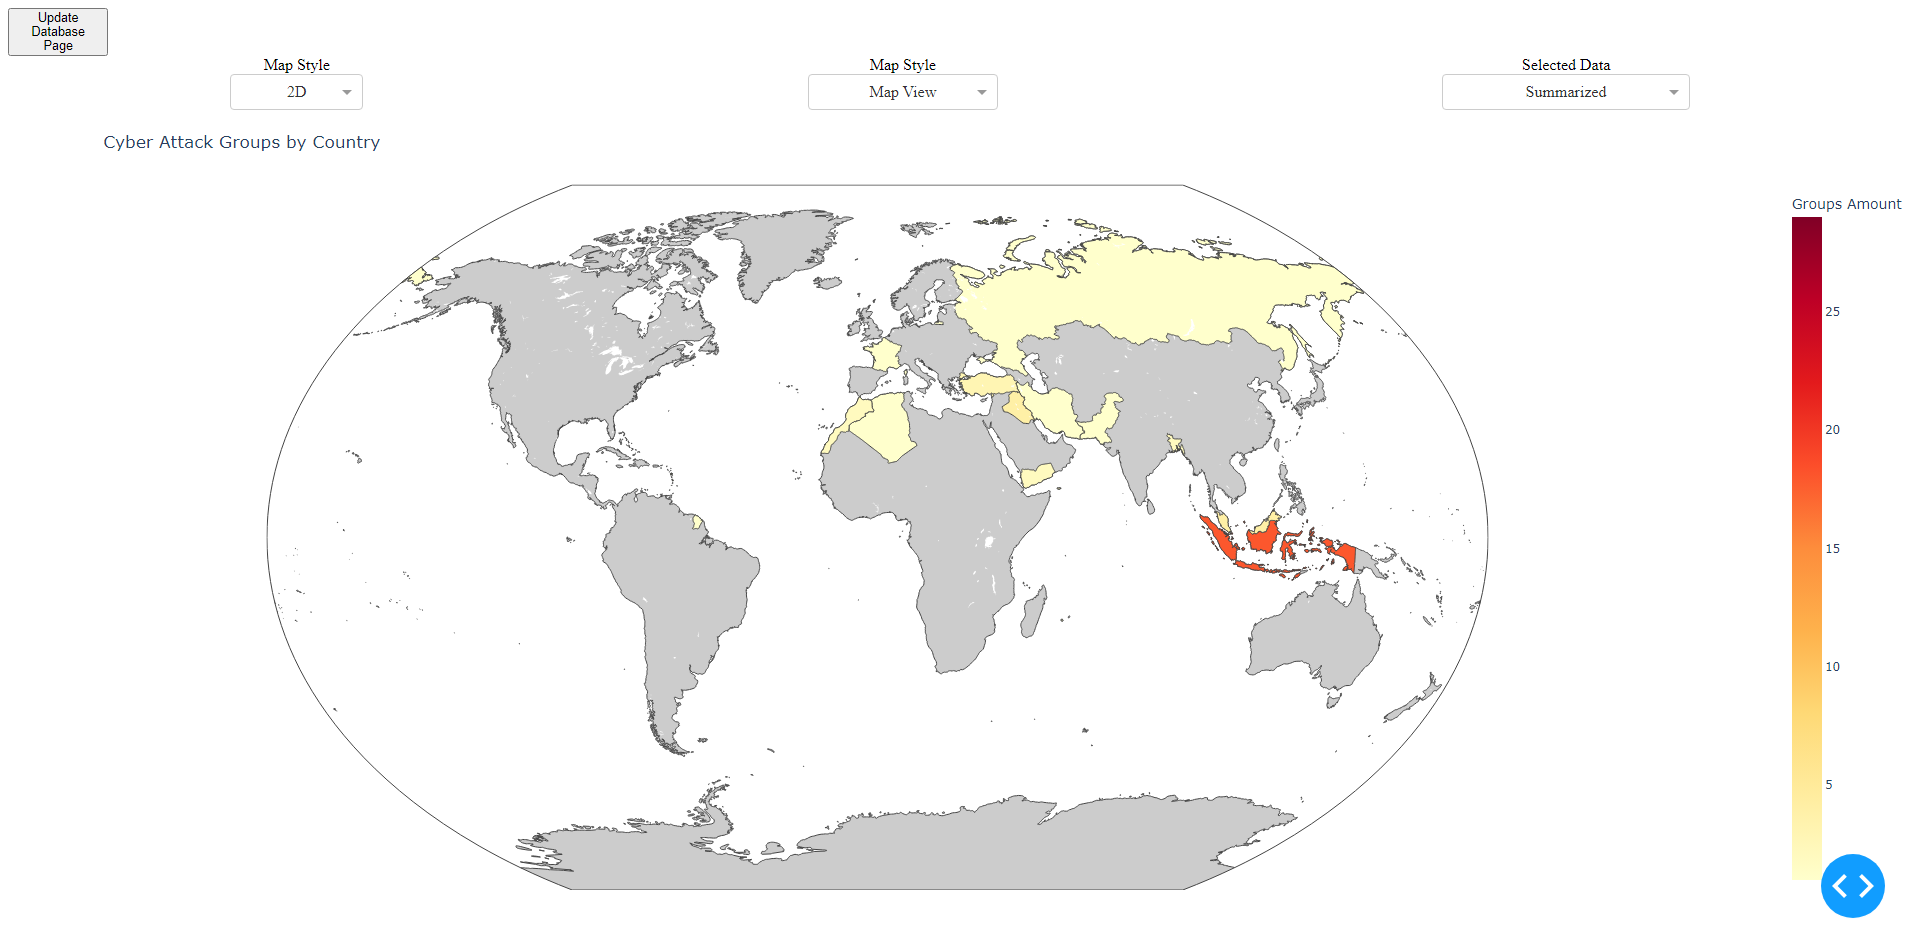
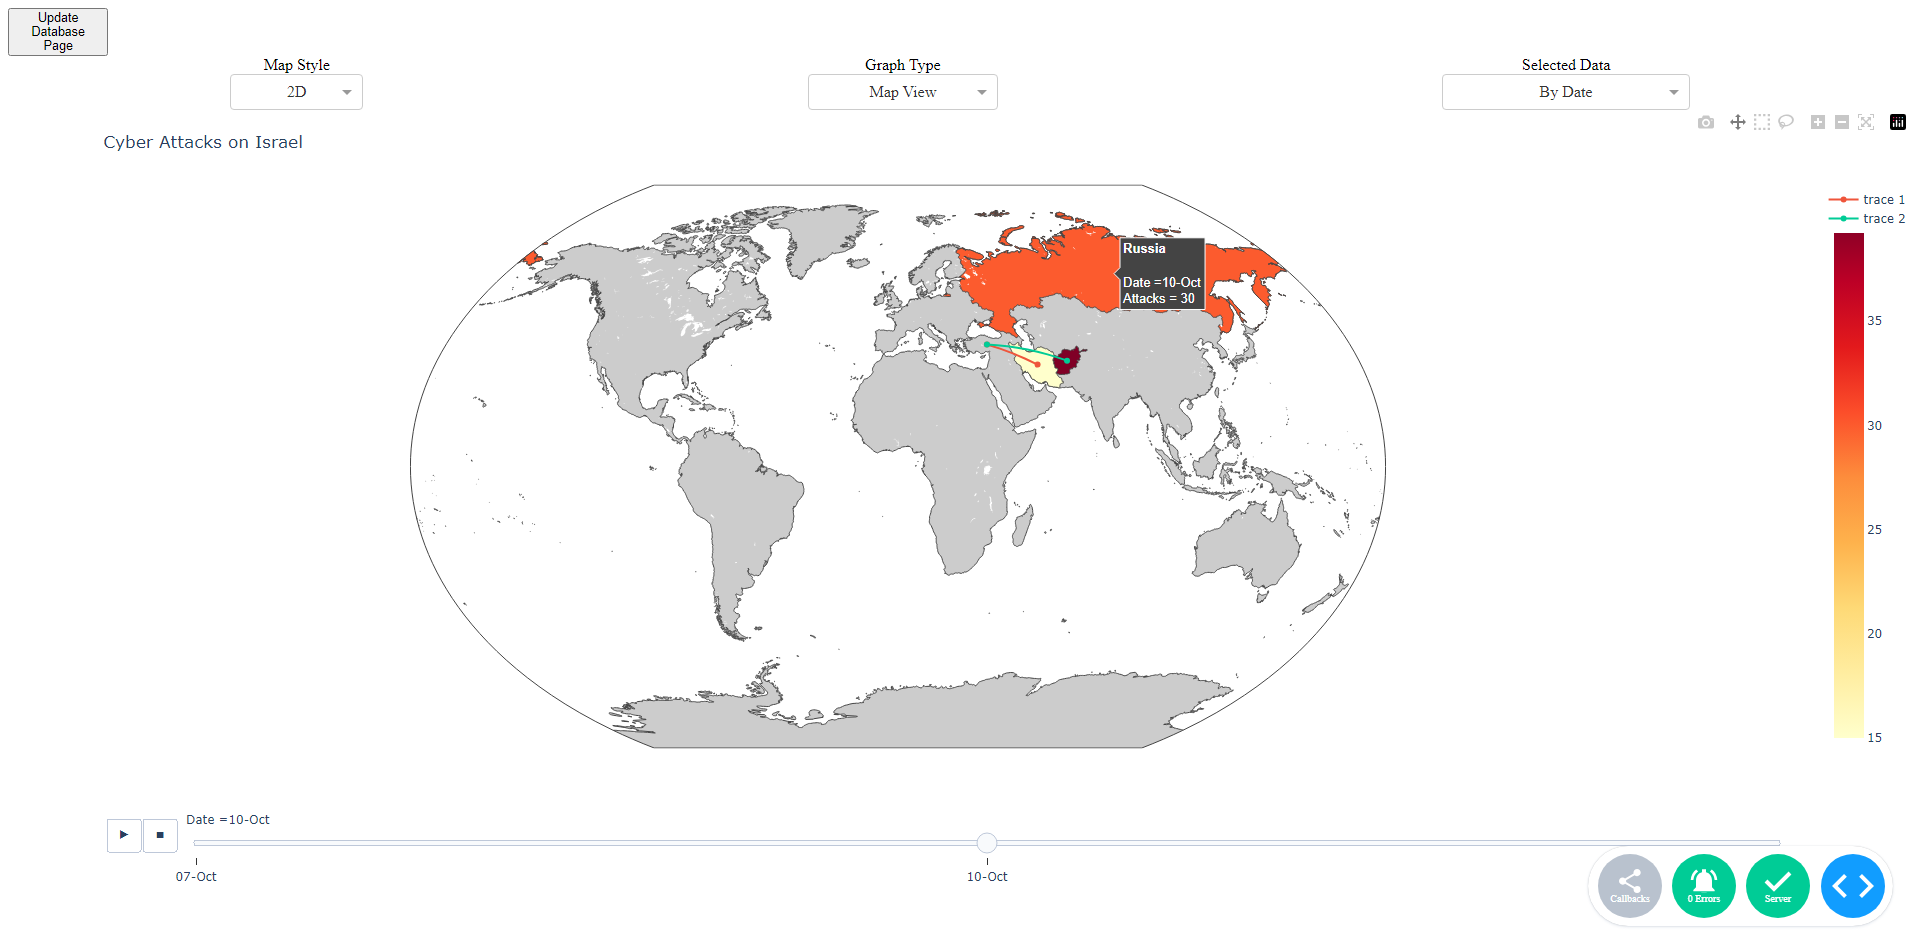
Version 1.2 - Fixed copy-past typo at the center dropdown list: "Map Style" -> "Graph Type" - Fixed the data of the Bars Graph  ( - Working Version - ) - The two dropdown lists that are connected only to the Map Graph won't appear anymore when the Bars Graph is displayed (using a global variable to 

diff --git a/Code/Server/server.py b/Code/Server/server.py
@@ -2,12 +2,16 @@ from dash import Dash, html
 from dash.dependencies import Input, Output, State
 import dash_bootstrap_components as dbc
 # - - - - - - - - - - - - - - -
+# please ignore if the IDE marks the 2 following lines as missing, there paths are loaded in "main.py"
 import html_graphs_divisions as graph_division
 import html_db_tab_divisions as db_tab_division
 import event_listener as event
 
 
 def set_server(attacks_data, fig, bars_fig, connections, date_animation):
+    global map_dropdown_style
+    map_dropdown_style = {'width': '13%', 'margin': '0 auto', 'textAlign': 'center'}
+
     event.init(attacks_data)
 
     app = Dash(__name__)
@@ -44,7 +48,7 @@ def set_server(attacks_data, fig, bars_fig, connections, date_animation):
                     style={'font-size': 12.5, 'width': 100}),
                     # style={'display': 'flex', 'margin': '0 auto'}),
 
-        graph_division.map_view(fig, bars_fig, date_animation),
+        graph_division.map_view(fig, bars_fig, date_animation, map_dropdown_style),
         db_tab_division.db_update(attacks_data, connections, date_animation)
     ])
 
@@ -80,7 +84,9 @@ def events(app, attacks_data, attacks_sum, screensize, color_axis, connections, 
         return fig, store_data
 
     # Choice the graph type #
-    app.callback(
+    @app.callback(
+        Output('map_style_display', 'style'),
+        Output('map_data_display', 'style'),
         Output('choropleth', 'style'),
         Output('bars', 'style'),
         Output('choropleth', 'figure', allow_duplicate=True),
@@ -89,7 +95,13 @@ def events(app, attacks_data, attacks_sum, screensize, color_axis, connections, 
         State('choropleth', 'figure'),
         # State('UI_Visibility', 'data'),
         prevent_initial_call=True
-    )(event.change_figure)
+    )
+    def figure_type(data_view, fig):
+        global map_dropdown_style
+        map_style_dropdown, map_data_dropdown, map_display, bars_display, fig =\
+            event.change_figure(data_view, fig, map_dropdown_style)
+        return map_style_dropdown, map_data_dropdown, map_display, bars_display, fig
+
     # def change_figure(data_view, fig):
     #     map_display, bars_display, fig = event.change_figure(data_view, fig)
     #     return map_display, bars_display, fig    #, store_data

diff --git a/Code/functions.py b/Code/functions.py
@@ -74,11 +74,20 @@ def create_map(attacks_data, map_style, screensize, color_axis, date_animation, 
                                 hover_data=hover_data, projection=map_style, animation_frame='Date ',
                                 title=graph_title, locationmode='country names', color_continuous_scale=colors_type,
                                 height=screensize[1]-150)   #.update_traces(visible=False, coloraxis=color_axis)
+
+        # bars_fig = pl_exp.bar(attacks_data, x="Country", y=color_data, color='Groups ', animation_frame='Date ',
+        #                       hover_data=hover_data)
+        bars_fig = pl_exp.bar(attacks_data, x="Country", y=color_data, color=color_data,
+                              hover_data=hover_data)  # pattern_shape='Groups ' , pattern_shape_sequence=[".", "x", "+"])
+
     else:
         fig = pl_exp.choropleth(attacks_data, locations='Country', color=color_data, hover_name='Country',
                                 hover_data=hover_data, projection=map_style,
                                 title=graph_title, locationmode='country names', color_continuous_scale=colors_type,
-                                height=screensize[1]-150)  # .update_traces(visible=False, coloraxis=color_axis)
+                                height=screensize[1]-150)
+
+        bars_fig = pl_exp.bar(attacks_data, x="Country", y=color_data, color=color_data,
+                              hover_data=hover_data)
 
     # else:
     #     fig = pl_exp.choropleth(attacks_data, locations='Country', color=color_data, hover_name='Country',
@@ -87,9 +96,6 @@ def create_map(attacks_data, map_style, screensize, color_axis, date_animation, 
     #                             height=screensize[1] - 100)  # .update_traces(visible=False, coloraxis=color_axis)
 
     # fig.update_layout(coloraxis_showscale=False)
-
-    bars_fig = pl_exp.bar(attacks_data, x="Country", y=color_data, color=color_data,
-                          pattern_shape="Groups ")     #, pattern_shape_sequence=[".", "x", "+"])
 
     # Settings for the color map index like: settings his minimum & maximum values and adding a title above it #
     fig = fig.update_layout(

diff --git a/Code/Server/HTML Divisions/html_graphs_divisions.py b/Code/Server/HTML Divisions/html_graphs_divisions.py
@@ -1,7 +1,7 @@
 from dash import dcc, html
 
 
-def top_menu(date_animation):
+def top_menu(date_animation, map_dropdown_style):
     return html.Div(children=[
         html.Div(children=[
             html.Label('Map Style'),
@@ -9,10 +9,10 @@ def top_menu(date_animation):
                          '2D',
                          clearable=False,
                          id='map_style'),
-        ], style={'width': '7%', 'margin': '0 auto', 'textAlign': 'center'}),
+        ], style=map_dropdown_style, id='map_style_display'),  # 'width': '7%'
 
         html.Div(children=[
-            html.Label('Map Style'),
+            html.Label('Graph Type'),
             dcc.Dropdown(['Map View', 'Bars View'],
                          'Map View',
                          clearable=False,
@@ -26,13 +26,13 @@ def top_menu(date_animation):
                          'By Date' if date_animation else 'Summarized',
                          clearable=False,
                          id='map_data'),
-        ], style={'width': '13%', 'margin': '0 auto', 'textAlign': 'center'}),
+        ], style=map_dropdown_style, id='map_data_display'),
     ], style={'display': 'flex'})
 
 
-def map_view(fig, bars_fig, date_animation):
+def map_view(fig, bars_fig, date_animation, map_dropdown_style):
     return html.Div(children=[
-        top_menu(date_animation),
+        top_menu(date_animation, map_dropdown_style),
 
         # html.Div(children=[
         dcc.Loading(

diff --git a/Code/Server/event_listener.py b/Code/Server/event_listener.py
@@ -54,12 +54,14 @@ def change_map_data(map_data, fig, store_data, attacks_data, attacks_sum, screen
     return fig, store_data
 
 
-def change_figure(data_view, fig):
+def change_figure(data_view, fig, map_dropdown_style):
     # global map_current_data
 
     match data_view:
         case 'Bars View':
             # store_data['data_view'] = False
+            map_style_dropdown = {'display': 'none'}
+            map_data_dropdown = {'display': 'none'}
             map_display = {'display': 'none'}
             bars_display = {'display': 'block'}
             # fig['layout']['coloraxis']['colorbar']['visible'] = False
@@ -67,12 +69,14 @@ def change_figure(data_view, fig):
 
         case other:
             # store_data['data_view'] = True
+            map_style_dropdown = map_dropdown_style
+            map_data_dropdown = map_dropdown_style
             map_display = {'display': 'block'}
             bars_display = {'display': 'none'}
             # fig['layout']['coloraxis']['colorbar']['visible'] = True
             # fig.update_layout(coloraxis_showscale=False)
 
-    return map_display, bars_display, fig    #, store_data
+    return map_style_dropdown, map_data_dropdown, map_display, bars_display, fig    #, store_data
 
 
 # # core update of figure on change of dash slider #

diff --git a/main.py b/main.py
@@ -1,14 +1,12 @@
 import os
 import sys
+import ctypes
+import pandas as pd
 import urllib.error
-
+# - - - - - - - - - - - - - - -
 sys.path.insert(1, os.path.abspath('Code'))
 sys.path.insert(1, os.path.abspath('Code/Server'))
 sys.path.insert(1, os.path.abspath('Code/Server/HTML Divisions'))
-
-import ctypes
-import pandas as pd
-# - - - - - - - - - - - - - - -
 from Code import functions as func
 from Code.Server import server
 
@@ -20,7 +18,7 @@ from Code.Server import server
 # 'Server Data' (default), 'Groups-Debug', 'Attacks-Debug', 'Attacks(Date)-Debug'
 file_data = 'Server Data'
 # 'Server Data' (default), 'Debug Data'
-connections_data = 'Debug Data'
+connections_data = 'Server Data'
 
 
 # Get the user screen size to set the map size #
